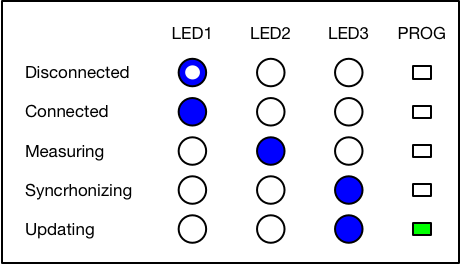
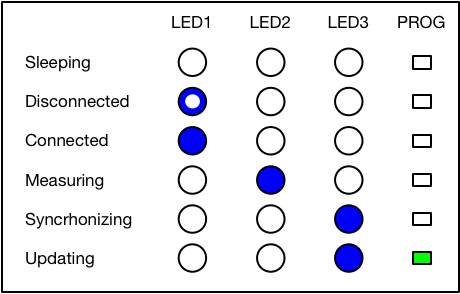
- added LED status and info for 'sleeping'

diff --git a/README.md b/README.md
@@ -23,13 +23,13 @@ This project contains a user guide for the Avimesa 1000.  Designed to connect wi
 - [5. Device Modes](#5.-device-modes)
     - [5.1 LED Test Mode](#5.1-device-modes-led-test)
     - [5.2 Run Mode](#5.2-device-modes-run-mode)
-    - [5.3 Service Mode](#5.3-device-modes-service-mode)
-    - [5.4 Firmware Update Mode](#5.4-device-modes-fw-update-mode)
+    - [5.4 Service Mode](#5.3-device-modes-service-mode)
+    - [5.5 Firmware Update Mode](#5.4-device-modes-fw-update-mode)
 - [6. LED Status Codes](#6.-led-status-codes)
     - [6.1 LED Test Mode](#6.1-led-status-codes-led-test)
     - [6.2 Run Mode](#6.2-led-status-codes-run-mode)
-    - [6.3 Service Mode](#6.3-led-status-codes-service-mode)
-    - [6.4 Firmware Update Mode](#6.4-led-status-codes-fw-update-mode)
+    - [6.4 Service Mode](#6.4-led-status-codes-service-mode)
+    - [6.5 Firmware Update Mode](#6.5-led-status-codes-fw-update-mode)
 - [7. Sensor Connection](#7.-sensor-conn)
     - [7.1 Pinout](#7.1-sensor-conn-pinout)
     - [7.2 Shielded Cables](#7.2-sensor-conn-shield)
@@ -167,7 +167,11 @@ Simply click the antenna to the `Antenna Connector` (Figure 1-C)
 [Top](#toc)<br>
 <a id="5.-device-modes"></a>
 ## 5. Device Modes
-In general, the device runs through a sequence of acquiring data from the attached 4-20 mA sensors, synchronizing with the Avimesa Device Cloud, and sleeping.
+In general, the device runs through a sequence of acquiring data from the attached 4-20 mA sensors, synchronizing with the Avimesa Device Cloud, and sleeping.  This is called `Run Mode`.
+
+A `Service Mode` is used for factory setup and is not typically used by end users.
+
+A `Firmware Update Mode` is used when updating the firmware.
 
 <a id="5.1-device-modes-led-test"></a>
 ### 5.1 LED Test Mode
@@ -175,7 +179,7 @@ Upon boot up or soft reset, the device will run through an `LED Test Mode`.  Thi
 
 <a id="5.2-device-modes-run-mode"></a>
 ### 5.2 Run Mode
-After boot up, the normal state of the device is `Run Mode`.  In the mode, the device will perform measurements and synchronize with the Avimesa Device Cloud based upon it's configuration.  The configuration is setup via the Avimesa Toolkit and is described in section **TODO**.
+After boot up, the normal state of the device is `Run Mode`.  In the mode, the device will perform measurements and synchronize with the Avimesa Device Cloud based upon it's configuration.  The configuration is setup via the Avimesa Toolkit and is described [here](#8.-device-config).
 
 <a id="5.3-device-modes-service-mode"></a>
 ### 5.3 Service Mode
@@ -186,7 +190,7 @@ When the device isn't configured it will boot up into `Service Mode`.  The devic
 
 <a id="5.4-device-modes-fw-update-mode"></a>
 ### 5.4 Firmware Update Mode
-When the device is in firmware update mode, no other functionality is available.  The device will reset automatically after the firmware update completes and resume normal operation.
+When the device is in `Firmware Update Mode`, no other functionality is available.  The device will reset automatically after the firmware update completes and resume normal operation.
 
 If the firmware update is interrupted, the device will revert the currently running firmware.
 
@@ -214,6 +218,8 @@ When in this mode, in general the LEDs represent the following:
 - LED3 - Device Cloud Connection Status
 - PROG LED - Program LED
 
+When sleeping, the device's power switch will be on, and all LEDs will be off.
+
 These states are represented by LEDs 1-3 using the following:
 
 ![ug-callouts](images/ug-led-states-run-mode.png)<br>
@@ -223,6 +229,7 @@ The same information in text form:
 
 | State         | LED1 Red | LED1 Blue      | LED2 Red | LED2 Blue | LED3 Red | LED3 Blue | PROG LED Green      |
 | ---           | ---      | ---            | ---      | ---       | ---      | ---       | ---                 |
+| Sleeping      | Off      | Off            | Off      | Off       |Off       | Off       | Off                 |
 | Disconnected  | Off      | **Fast Blink** | Off      | Off       | Off      | Off       | Off                 |
 | Connected     | Off      | **On**         | Off      | Off       | Off      | Off       | Off                 |
 | Measuring     | Off      | Off            | Off      | **On**    | Off      | Off       | Off                 |
